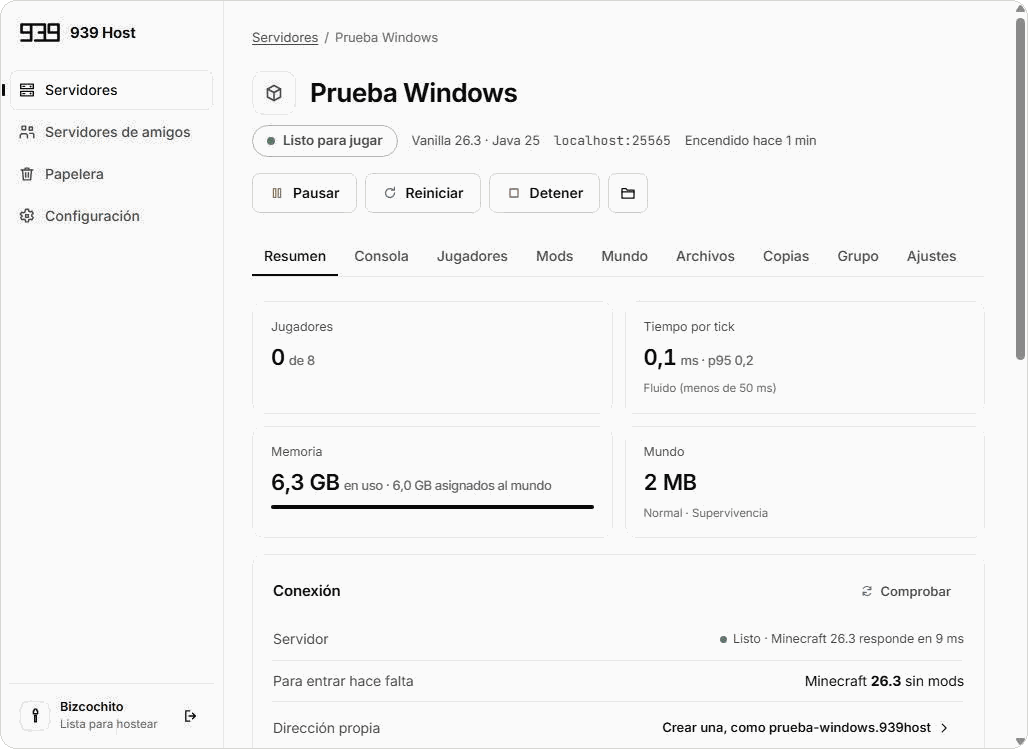
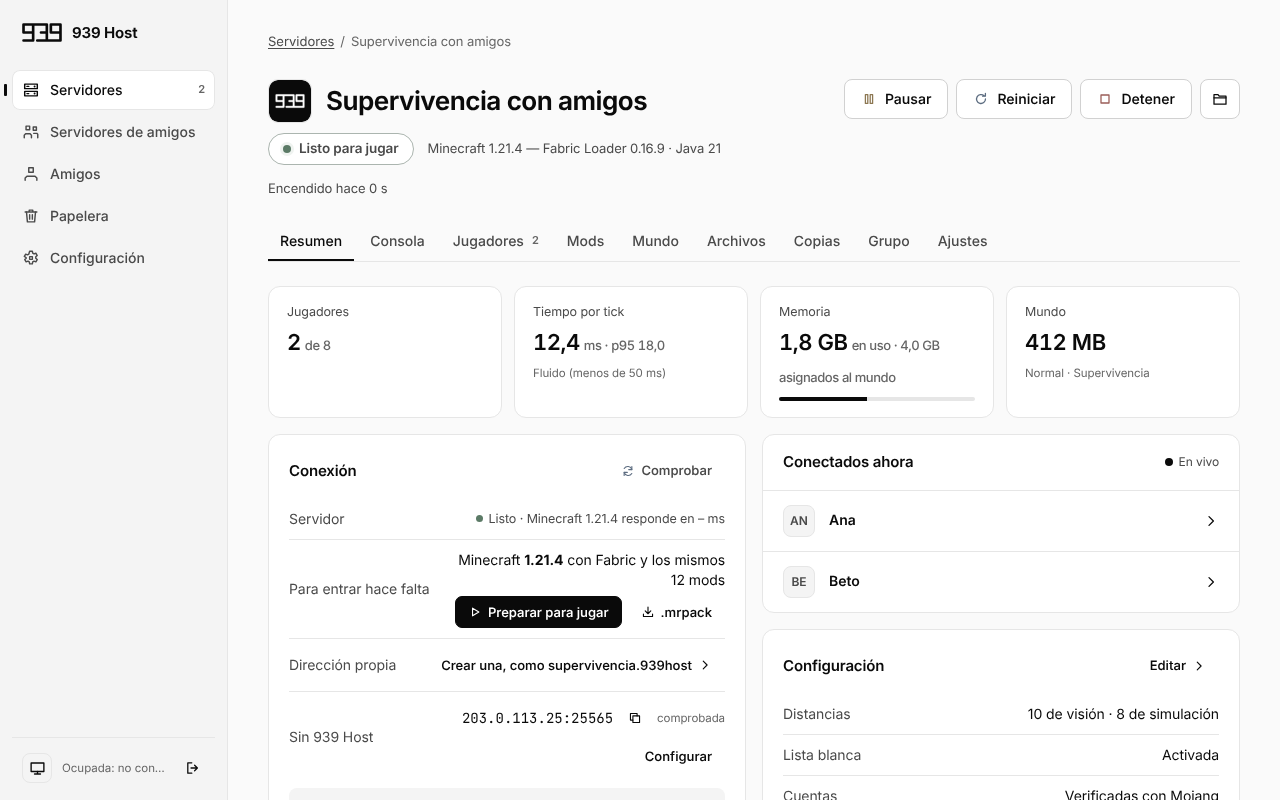
README: preparar para jugar, jugadores, conexión por IP, compatibilidad, primera vez, seguridad y preguntas
- Capturas nuevas de la interfaz real con datos de ejemplo (claro y oscuro), generadas con
  ci/vista-previa/readme.py; los datos de ejemplo usan nombres neutros e IP de documentación.
- Resultado de «Preparar para jugar» con texto legible («Minecraft 1.21.4 con Fabric …»).

Claude-Session: https://claude.ai/code/session_01JDUAUpndGQ8kRXZ29abNmq

diff --git a/ci/vista-previa/mock.js b/ci/vista-previa/mock.js
@@ -7,8 +7,8 @@
   const server = (over = {}) => Object.assign({ config: cfg, logoUrl: null, status: 'running', players: ['Ana', 'Beto'], startedAt: now, memoryUsedMb: 1830, mspt: 12.4, msptP95: 18, lastError: null, needsRestart: false, installing: false, worldSizeMb: 412, paused: false, saving: false, restarting: false, phase: null, countdown: null, pauseSupported: true, reach: 'ok', reachInfo: null, reachError: null, joinIssue: null, modsCount: 12 }, over);
   const servers = [server({ logoUrl: 'logo-939.png', config: Object.assign({}, cfg, { logo: '939' }) }), server({ config: Object.assign({}, cfg, { id: 'srv-2', name: 'Creativo', loader: 'vanilla', loaderVersion: null }), status: 'stopped', players: [] })];
   const friends = { available: true, friends: [
-    { node: 'n1', name: 'Archimak', online: true, playing: 'Supervivencia con amigos', available: true, unread: 2, avatar: null, sharedGroups: ['Supervivencia con amigos'] },
-    { node: 'n2', name: 'Kaki', online: false, playing: null, available: false, unread: 0, avatar: null, sharedGroups: [] }],
+    { node: 'n1', name: 'Lucía', online: true, playing: 'Supervivencia con amigos', available: true, unread: 2, avatar: null, sharedGroups: ['Supervivencia con amigos'] },
+    { node: 'n2', name: 'Tomi', online: false, playing: null, available: false, unread: 0, avatar: null, sharedGroups: [] }],
     requests: [{ node: 'n3', name: 'Lucía' }], notices: [], blocked: 0 };
   const T = {
     app_info: { version: '1.0.0', dataDir: 'C:\\Users\\usuario\\AppData\\Local\\939Host', node: { nodeId: 'abc', shortId: 'ABC' }, settings: D.settings },
@@ -26,9 +26,9 @@
     files_list: { entries: [{ name: 'world', path: 'world', dir: true, size: 0, modified: now, kind: 'world', locked: true }, { name: 'mods', path: 'mods', dir: true, size: 0, modified: now, kind: 'mods', locked: false }, { name: 'server.properties', path: 'server.properties', dir: false, size: 1300, modified: now, kind: 'config', locked: false }], remote: false },
     public_address_get: '',
     alias_status: { items: [], suggestion: { 'srv-demo': 'supervivencia' } }, list_backups: [], players_list: [
-      { name: 'Archimak', uuid: 'dc93628e-4a27-409a-8ed7-fa8b31818b75', online: true, whitelisted: true, opLevel: 4, banned: false, lastSeen: null },
-      { name: 'Kaki', uuid: '11111111-2222-4333-8444-555555555555', online: false, whitelisted: true, opLevel: null, banned: false, lastSeen: '2026-11-19T21:30:00-03:00' }],
-    player_detail: { name: 'Archimak', uuid: 'dc93628e-4a27-409a-8ed7-fa8b31818b75', source: 'live', savedAt: null, health: 15, food: 18, saturation: 3.5, xpLevel: 12, xpProgress: 0.4,
+      { name: 'Lucía', uuid: 'dc93628e-4a27-409a-8ed7-fa8b31818b75', online: true, whitelisted: true, opLevel: 4, banned: false, lastSeen: null },
+      { name: 'Tomi', uuid: '11111111-2222-4333-8444-555555555555', online: false, whitelisted: true, opLevel: null, banned: false, lastSeen: '2026-11-19T21:30:00-03:00' }],
+    player_detail: { name: 'Lucía', uuid: 'dc93628e-4a27-409a-8ed7-fa8b31818b75', source: 'live', savedAt: null, health: 15, food: 18, saturation: 3.5, xpLevel: 12, xpProgress: 0.4,
       gamemode: 'survival', dimension: 'minecraft:overworld', pos: [120.5, 64, -340.2], facing: 'Norte', spawn: null, armorPoints: 8,
       equipment: { head: null, chest: { slot: 102, id: 'minecraft:iron_chestplate', count: 1, damage: 20, maxDamage: 240, enchantments: [], customName: null }, legs: null, feet: null, offhand: null },
       inventory: [{ slot: 0, id: 'minecraft:diamond_sword', count: 1, damage: 100, maxDamage: 1561, enchantments: [['minecraft:sharpness', 3]], customName: null },
@@ -47,10 +47,10 @@
[1 lines of base64/hex data omitted]
     game_names: { 'item:shield': 'Escudo', 'block:chest': 'Cofre', 'item:diamond_sword': 'Espada de diamante', 'block:oak_planks': 'Tablones de roble', 'item:enchanted_golden_apple': 'Manzana dorada encantada', 'enchantment:sharpness': 'Filo' },
     external_status: { allowed: true, shared: true, canChange: true, onlineMode: true, whitelist: false, lanAccess: false, consent: true, mapping: true, myPort: 25565,
-      entrances: [{ node: 'n0', name: 'Esta PC', online: true, isMe: true, info: { state: 'comprobada', detail: 'Comprobada desde otra PC del grupo: Minecraft 1.21.4 responde en 38 ms.', addr: '181.45.3.2:25565', addrV6: null, local: '192.168.1.20:25565', method: 'upnp', checkedAt: '2026-11-20T03:00:00-03:00' } },
-        { node: 'n2', name: 'Kaki', online: true, isMe: false, info: { state: 'cgnat', detail: 'El router abrió el puerto, pero su IP de Internet (100.70.1.4) es compartida por tu proveedor (CGNAT): desde Internet no se llega a esta PC. Otra PC del grupo puede ser la entrada.', addr: null, method: 'upnp' } }],
-      best: '181.45.3.2:25565', bestVerified: true, publicName: null },
-    client_prepare: { profileName: '939 Host · Supervivencia con amigos', versionId: 'fabric-loader-0.16.9-1.21.4', gameDir: 'C:\\Users\\vos\\AppData\\Roaming\\.minecraft\\939 Host\\Supervivencia con amigos', modsInstalled: 12, previousMods: 'mods anteriores', serverOnly: ['Chunky'], installedVersion: true, installedLoader: true },
+      entrances: [{ node: 'n0', name: 'Esta PC', online: true, isMe: true, info: { state: 'comprobada', detail: 'Comprobada desde otra PC del grupo: Minecraft 1.21.4 responde en 38 ms.', addr: '203.0.113.25:25565', addrV6: null, local: '192.168.1.20:25565', method: 'upnp', checkedAt: '2026-11-20T03:00:00-03:00' } },
+        { node: 'n2', name: 'Tomi', online: true, isMe: false, info: { state: 'cgnat', detail: 'El router abrió el puerto, pero su IP de Internet (100.70.1.4) es compartida por tu proveedor (CGNAT): desde Internet no se llega a esta PC. Otra PC del grupo puede ser la entrada.', addr: null, method: 'upnp' } }],
+      best: '203.0.113.25:25565', bestVerified: true, publicName: null },
+    client_prepare: { label: 'Minecraft 1.21.4 con Fabric 0.16.9', profileName: '939 Host · Supervivencia con amigos', versionId: 'fabric-loader-0.16.9-1.21.4', gameDir: 'C:\\Users\\vos\\AppData\\Roaming\\.minecraft\\939 Host\\Supervivencia con amigos', modsInstalled: 12, previousMods: 'mods anteriores', serverOnly: ['Chunky'], installedVersion: true, installedLoader: true },
     player_edit_access: { allowed: true, reason: null, liveHealth: true, liveFeed: true, liveXp: true }, modrinth_modpacks: { hits: [], total: 0 },
   };
   const OBJ = new Set(['get_server', 'world_info', 'files_list', 'snapshots_list', 'alias_status', 'app_info', 'share_status', 'storage_usage', 'game_assets_status', 'modrinth_modpacks', 'cf_status', 'alias_status', 'profile_photo_get', 'player_edit_access', 'player_detail', 'mod_items', 'external_status', 'client_prepare', 'game_assets_status', 'game_sprites', 'game_names']);

diff --git a/ui/profile.js b/ui/profile.js
@@ -34,10 +34,10 @@ A['client-prepare'] = async (el) => {
   el.disabled = false; el.removeAttribute('aria-busy'); el.innerHTML = `${icon('check', 14)}Listo para jugar`;
   await dialog({ title: 'Listo para jugar', cancel: null, confirm: 'Entendido',
     body: `<ul class="steps-done">
-        <li>${icon('check', 14)}Minecraft ${esc(r.versionId)} ${r.installedVersion || r.installedLoader ? 'instalado' : 'ya estaba instalado'}</li>
-        ${r.modsInstalled ? `<li>${icon('check', 14)}${r.modsInstalled} ${r.modsInstalled === 1 ? 'mod instalado y verificado' : 'mods instalados y verificados'}</li>` : ''}
-        ${r.serverOnly.length ? `<li>${icon('check', 14)}${r.serverOnly.length} solo del servidor, no hace${r.serverOnly.length === 1 ? '' : 'n'} falta en tu PC</li>` : ''}
-        <li>${icon('check', 14)}Perfil <b>${esc(r.profileName)}</b> en el Launcher, con el servidor en Multijugador</li>
+        <li>${icon('check', 14)}<span>${esc(r.label || r.versionId)}: ${r.installedVersion || r.installedLoader ? 'instalado' : 'ya estaba instalado'}</span></li>
+        ${r.modsInstalled ? `<li>${icon('check', 14)}<span>${r.modsInstalled} ${r.modsInstalled === 1 ? 'mod instalado y verificado' : 'mods instalados y verificados'}</span></li>` : ''}
+        ${r.serverOnly.length ? `<li>${icon('check', 14)}<span>${r.serverOnly.length} solo del servidor, no hace${r.serverOnly.length === 1 ? '' : 'n'} falta en tu PC</span></li>` : ''}
+        <li>${icon('check', 14)}<span>Perfil <b>${esc(r.profileName)}</b> en el Launcher, con el servidor en Multijugador</span></li>
       </ul>
       ${r.previousMods ? `<p class="sm t2">La carpeta de mods que había quedó guardada como «${esc(r.previousMods)}».</p>` : ''}
       <p class="sm">Abrí el <b>Launcher de Minecraft</b>, elegí el perfil <b>${esc(r.profileName)}</b> y tocá <b>Jugar</b>. La primera vez el Launcher termina de bajar algunos archivos del juego.</p>

diff --git a/ci/vista-previa/readme.py b/ci/vista-previa/readme.py
@@ -1,0 +1,54 @@
+"""Capturas del README: la interfaz real de 939 Host con datos de ejemplo (backend simulado).
+Uso: python3 ci/vista-previa/readme.py   → escribe docs/img/app-*.png"""
+import io, pathlib, shutil
+from playwright.sync_api import sync_playwright
+from PIL import Image
+
+ROOT = pathlib.Path(__file__).resolve().parents[2]
+OUT = ROOT / "docs/img"
+datos = (ROOT / "ci/vista-previa/datos.json").read_text()
+mock = (ROOT / "ci/vista-previa/mock.js").read_text()
+
+def save(png: bytes, name: str):
+    im = Image.open(io.BytesIO(png)).convert("RGB")
+    im.save(OUT / name, optimize=True)
+
+def open_app(b, theme):
+    ctx = b.new_context(viewport={"width": 1280, "height": 800}, device_scale_factor=1, color_scheme=theme, reduced_motion="reduce")
+    pg = ctx.new_page()
+    pg.add_init_script(f"window.__DATOS__ = {datos};\n{mock}")
+    pg.goto((ROOT / "ui/index.html").as_uri())
+    pg.wait_for_function("!document.getElementById('splash')", timeout=8000)
+    pg.add_style_tag(content="*{caret-color:transparent}")
+    return ctx, pg
+
+with sync_playwright() as p:
+    b = p.chromium.launch(executable_path=shutil.which("google-chrome"), args=["--allow-file-access-from-files"])
+    for theme, suf in [("light", "claro"), ("dark", "oscuro")]:
+        ctx, pg = open_app(b, theme)
+        pg.evaluate("go('server', {id:'srv-demo'})"); pg.wait_for_timeout(900)
+        save(pg.screenshot(), f"app-resumen-{suf}.png")
+        # Jugadores: controles − y + y la ficha.
+        pg.click('.tab:has-text("Jugadores")'); pg.wait_for_timeout(1000)
+        save(pg.screenshot(), f"app-jugadores-{suf}.png")
+        # Inventario en lista, con un ítem elegido.
+        pg.click('[data-a="pf-tab"][data-v="inv"]'); pg.wait_for_timeout(600)
+        pg.click('[data-a="inv-view"][data-v="list"]'); pg.wait_for_timeout(300)
+        pg.click('[data-key="inv:4"]'); pg.wait_for_timeout(500)
+        pg.evaluate("document.querySelector('.inv-wrap').scrollIntoView({block:'start'}); window.scrollBy(0,-90); document.querySelector('main, .main, #view')?.scrollBy?.(0,-90)")
+        pg.wait_for_timeout(200)
+        save(pg.screenshot(), f"app-inventario-{suf}.png")
+        # Conexión por IP.
+        pg.click('.tab:has-text("Resumen")'); pg.wait_for_timeout(900)
+        pg.set_viewport_size({"width": 1280, "height": 1060})
+        pg.click('[data-a="ext-open"]'); pg.wait_for_timeout(700)
+        pg.evaluate("document.querySelector('.overlay').scrollTop = 0; document.activeElement?.blur()"); pg.wait_for_timeout(150)
+        save(pg.screenshot(), f"app-conexion-ip-{suf}.png")
+        pg.keyboard.press("Escape"); pg.wait_for_timeout(300)
+        pg.set_viewport_size({"width": 1280, "height": 800})
+        # Preparar para jugar (resultado).
+        pg.click('[data-a="client-prepare"]'); pg.wait_for_timeout(800)
+        save(pg.screenshot(), f"app-preparar-{suf}.png")
+        ctx.close()
+    b.close()
+print("capturas en", OUT)

diff --git a/crates/core/src/clientsetup.rs b/crates/core/src/clientsetup.rs
@@ -57,6 +57,8 @@ impl Default for Loader { fn default() -> Self { Loader::Vanilla } }
 #[derive(Debug, Clone, Serialize, Default)]
 #[serde(rename_all = "camelCase")]
 pub struct Report {
+    /// Para mostrar: «Minecraft 1.21.4 con Fabric 0.16.9».
+    pub label: String,
     pub profile_name: String,
     pub version_id: String,
     pub game_dir: String,
@@ -357,7 +359,11 @@ where F: Fn(String) -> Fut, Fut: std::future::Future<Output = AppResult<Vec<u8>>
         }
     };
     progress("Listo para jugar", 1.0);
-    Ok(Report { profile_name: name, version_id: vid, game_dir: gdir.to_string_lossy().to_string(), mods_installed: plan.mods.len(), previous_mods: previous, server_only: plan.server_only.clone(), installed_version, installed_loader })
+    let label = match (&plan.loader, &plan.loader_version) {
+        (Loader::Vanilla, _) | (_, None) => format!("Minecraft {}", plan.mc_version),
+        (l, Some(v)) => format!("Minecraft {} con {} {}", plan.mc_version, l.name(), v),
+    };
+    Ok(Report { label, profile_name: name, version_id: vid, game_dir: gdir.to_string_lossy().to_string(), mods_installed: plan.mods.len(), previous_mods: previous, server_only: plan.server_only.clone(), installed_version, installed_loader })
 }
 
 #[cfg(test)]
